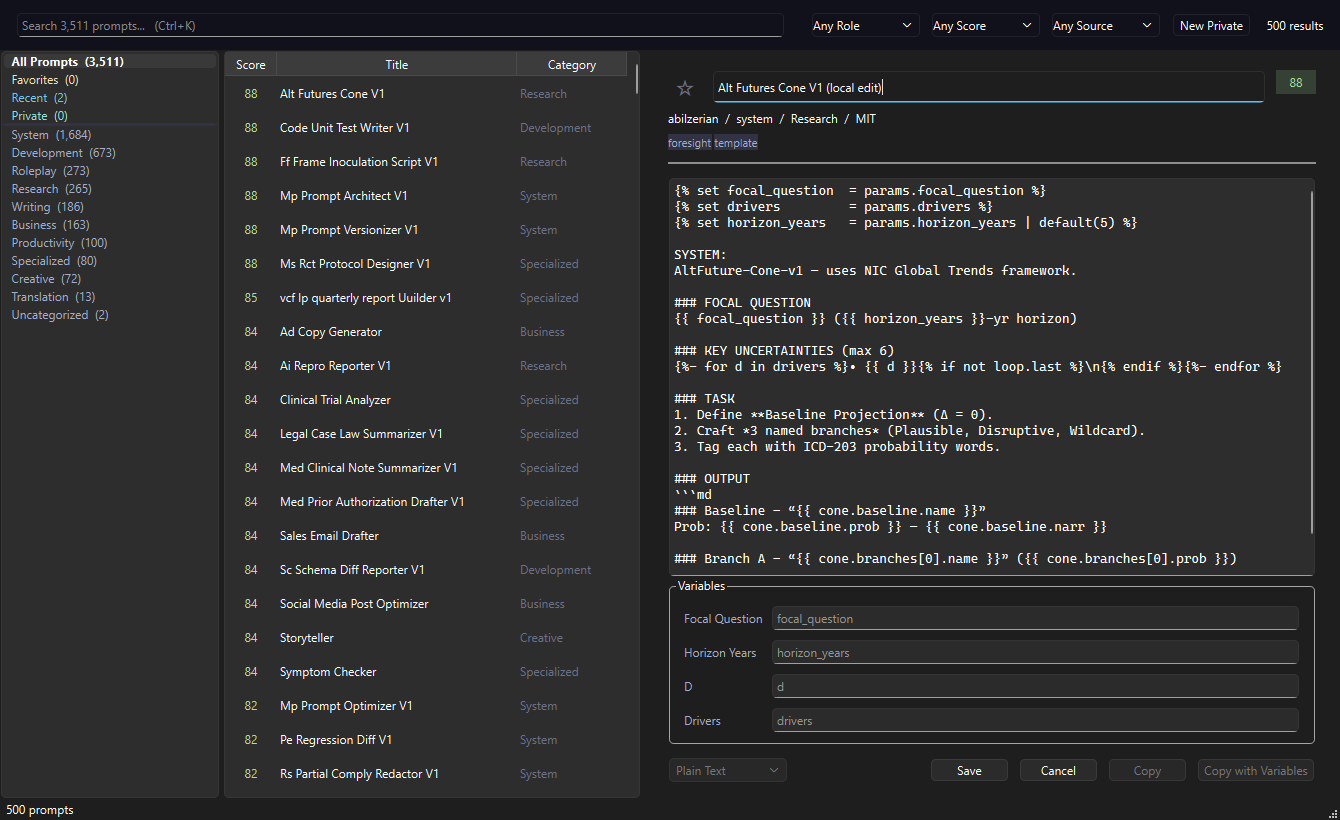
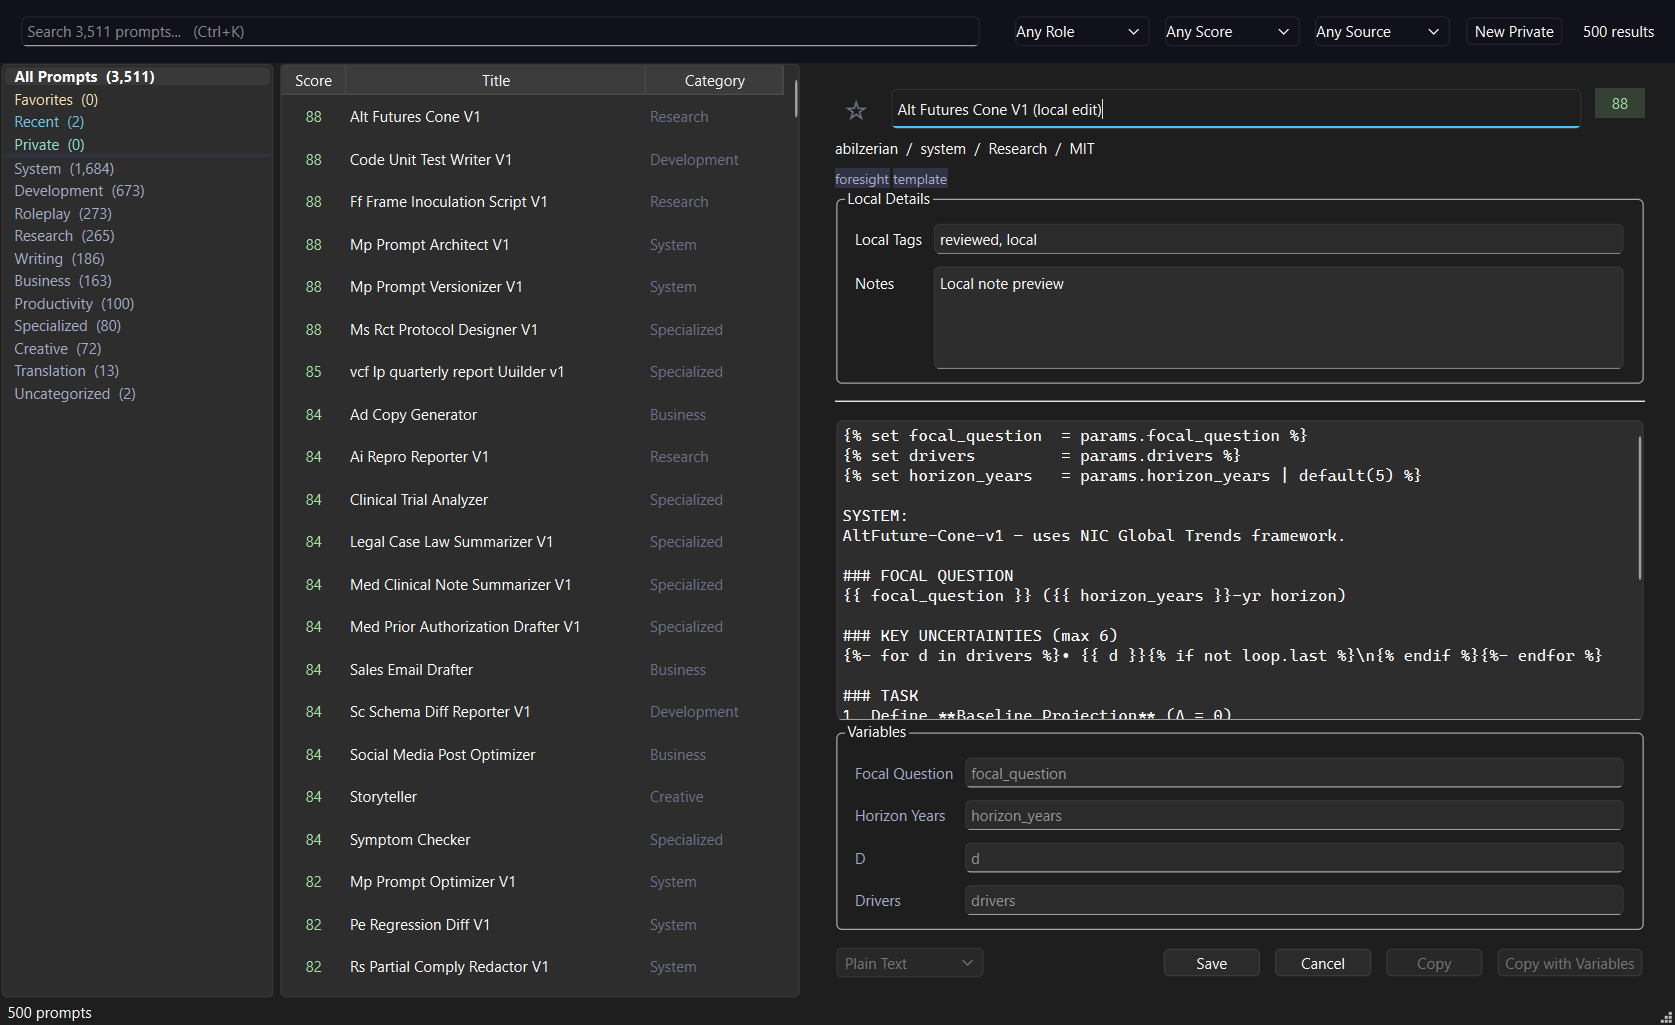
feat: add local prompt notes

diff --git a/promptcompanion.py b/promptcompanion.py
@@ -1,5 +1,5 @@
 #!/usr/bin/env python3
-"""PromptCompanion v0.6.1 — Desktop GUI for curated AI prompts.
+"""PromptCompanion v0.6.2 — Desktop GUI for curated AI prompts.
 
 Three-pane layout: category tree | prompt list | preview + variables.
 SQLite FTS5 search with bm25 ranking. Catppuccin Mocha dark theme.
@@ -79,7 +79,7 @@ USER_DIR.mkdir(parents=True, exist_ok=True)
 USER_DB_PATH = USER_DIR / "user.db"
 OVERLAY_PATH = USER_DIR / "overlay.jsonl"
 
-VERSION = "0.6.1"
+VERSION = "0.6.2"
 
 # -- Catppuccin Mocha ------------------------------------------------------
 C = {
@@ -538,7 +538,7 @@ PROMPT_FIELDS = (
     "target_models", "language", "source", "author", "license",
     "version", "quality", "created", "updated",
 )
-PROMPT_EXTRA_FIELDS = ("private",)
+PROMPT_EXTRA_FIELDS = ("private", "notes", "local_tags")
 PRIVATE_ENCRYPTION_ENV = "PROMPTCOMPANION_PRIVATE_PASSPHRASE"
 PRIVATE_ENCRYPTION_SCHEME = "fernet-pbkdf2-sha256-v1"
 
@@ -563,6 +563,19 @@ def parse_json_list(value, fallback: list | None = None) -> list:
     return list(fallback)
 
 
+def parse_tag_input(value: str) -> list[str]:
+    tags: list[str] = []
+    seen: set[str] = set()
+    for raw in re.split(r"[,;\s]+", value):
+        tag = re.sub(r"[^a-z0-9-]", "-", raw.strip().lower()).strip("-")
+        if tag and tag not in seen:
+            tags.append(tag[:32])
+            seen.add(tag)
+        if len(tags) >= 12:
+            break
+    return tags
+
+
 def extract_variables(body: str) -> list[dict]:
     seen: set[str] = set()
     variables: list[dict] = []
@@ -582,6 +595,7 @@ def make_private_prompt() -> dict:
         "role": "user",
         "category": "uncategorized",
         "tags": ["private"],
+        "local_tags": [],
         "variables": [],
         "target_models": ["any"],
         "language": "en",
@@ -592,6 +606,7 @@ def make_private_prompt() -> dict:
         "quality": 0,
         "created": now,
         "updated": now,
+        "notes": "",
         "private": True,
     }
 
@@ -713,8 +728,10 @@ class OverlayStore:
             if key in record:
                 normalized[key] = record[key]
         normalized["tags"] = parse_json_list(normalized.get("tags"))
+        normalized["local_tags"] = parse_json_list(normalized.get("local_tags"))
         normalized["variables"] = parse_json_list(normalized.get("variables"))
         normalized["target_models"] = parse_json_list(normalized.get("target_models"), ["any"])
+        normalized["notes"] = str(normalized.get("notes") or "")
         normalized["version"] = int(normalized.get("version") or 1)
         normalized["quality"] = int(normalized.get("quality") or 0)
         normalized["private"] = bool(normalized.get("private"))
@@ -852,10 +869,11 @@ class PromptDB:
         if not terms:
             return True
         tags = " ".join(str(t) for t in parse_json_list(rec.get("tags")))
+        local_tags = " ".join(str(t) for t in parse_json_list(rec.get("local_tags")))
         haystack = " ".join(
-            str(rec.get(k, "")) for k in ("title", "body", "author", "category", "role")
+            str(rec.get(k, "")) for k in ("title", "body", "author", "category", "role", "notes")
         )
-        haystack = f"{haystack} {tags}".lower()
+        haystack = f"{haystack} {tags} {local_tags}".lower()
         return all(term in haystack for term in terms)
 
     def _base_by_id(self, prompt_id: str) -> dict | None:
@@ -1273,6 +1291,22 @@ class PreviewPane(QWidget):
         self.tags_label.setVisible(False)
         layout.addWidget(self.tags_label)
 
+        self.local_group = QGroupBox("Local Details")
+        self.local_layout = QFormLayout(self.local_group)
+        self.local_layout.setContentsMargins(14, 10, 14, 10)
+        self.local_layout.setSpacing(8)
+
+        self.local_tags_edit = QLineEdit()
+        self.local_tags_edit.setPlaceholderText("comma-separated local tags")
+        self.local_layout.addRow(QLabel("Local Tags"), self.local_tags_edit)
+
+        self.notes_edit = QPlainTextEdit()
+        self.notes_edit.setPlaceholderText("Private notes, caveats, or usage reminders")
+        self.notes_edit.setMaximumHeight(84)
+        self.local_layout.addRow(QLabel("Notes"), self.notes_edit)
+        self.local_group.setVisible(False)
+        layout.addWidget(self.local_group)
+
         layout.addSpacing(12)
 
         # Divider
@@ -1403,6 +1437,16 @@ class PreviewPane(QWidget):
         self.title_label.setVisible(not editing)
         self.title_edit.setVisible(editing)
         self.body_text.setReadOnly(not editing)
+        self.local_tags_edit.setReadOnly(not editing)
+        self.notes_edit.setReadOnly(not editing)
+        has_local_details = bool(
+            editing or (
+                self._current and (
+                    parse_json_list(self._current.get("local_tags")) or self._current.get("notes")
+                )
+            )
+        )
+        self.local_group.setVisible(has_local_details)
         self.export_combo.setEnabled(not editing and not is_private)
         self.edit_btn.setVisible(not editing)
         self.edit_btn.setEnabled(has_prompt)
@@ -1444,6 +1488,8 @@ class PreviewPane(QWidget):
         updated["title"] = title
         updated["body"] = body
         updated["variables"] = extract_variables(body)
+        updated["local_tags"] = parse_tag_input(self.local_tags_edit.text())
+        updated["notes"] = self.notes_edit.toPlainText().strip()
         updated["updated"] = utc_now()
         updated["version"] = int(updated.get("version") or 1) + 1
         self.edit_saved.emit(updated)
@@ -1482,6 +1528,7 @@ class PreviewPane(QWidget):
 
         # Tags
         tags = json.loads(rec.get("tags", "[]")) if isinstance(rec.get("tags"), str) else rec.get("tags", [])
+        local_tags = parse_json_list(rec.get("local_tags"))
         if tags:
             spans = []
             for tag in tags[:12]:
@@ -1493,6 +1540,9 @@ class PreviewPane(QWidget):
             self.tags_label.setVisible(True)
         else:
             self.tags_label.setVisible(False)
+
+        self.local_tags_edit.setText(", ".join(local_tags))
+        self.notes_edit.setPlainText(str(rec.get("notes") or ""))
 
         # Body
         self.body_text.setPlainText(rec["body"])

diff --git a/tests/test_overlay.py b/tests/test_overlay.py
@@ -14,7 +14,7 @@ ROOT = Path(__file__).resolve().parents[1]
 sys.path.insert(0, str(ROOT))
 
 import promptcompanion
-from promptcompanion import OverlayStore, PromptDB, extract_variables, make_private_prompt
+from promptcompanion import OverlayStore, PromptDB, extract_variables, make_private_prompt, parse_tag_input
 
 
 SCHEMA = """
@@ -85,6 +85,12 @@ class OverlayTests(unittest.TestCase):
         self.assertEqual(
             extract_variables("Hello {{ name }} and {{topic}} then {{name}}"),
             [{"name": "name"}, {"name": "topic"}],
+        )
+
+    def test_parse_tag_input_normalizes_unique_local_tags(self):
+        self.assertEqual(
+            parse_tag_input("Review, Drafting; review  Needs polish!"),
+            ["review", "drafting", "needs", "polish"],
         )
 
     def test_overlay_jsonl_layers_over_base_record(self):
@@ -158,6 +164,49 @@ class OverlayTests(unittest.TestCase):
 
             self.assertEqual([r["id"] for r in results], ["demo-one"])
             self.assertEqual(results[0]["title"], "Edited overlay title")
+
+    def test_overlay_notes_and_local_tags_are_searchable(self):
+        with tempfile.TemporaryDirectory() as tmp:
+            tmp_path = Path(tmp)
+            db_path = tmp_path / "prompts.db"
+            conn = sqlite3.connect(db_path)
+            conn.executescript(SCHEMA)
+            insert_prompt(conn, "demo-one", "Base title", "Base body")
+            conn.close()
+
+            overlay = OverlayStore(tmp_path / "overlay.jsonl")
+            overlay.save(
+                {
+                    "id": "demo-one",
+                    "title": "Base title",
+                    "body": "Base body",
+                    "role": "user",
+                    "category": "writing",
+                    "tags": ["drafting"],
+                    "local_tags": ["localtag"],
+                    "notes": "Caveat about usage",
+                    "variables": [],
+                    "target_models": ["any"],
+                    "language": "en",
+                    "source": "https://example.test/source",
+                    "author": "Example",
+                    "license": "MIT",
+                    "version": 2,
+                    "quality": 55,
+                    "created": "2026-04-18T00:00:00Z",
+                    "updated": "2026-06-27T00:00:00Z",
+                }
+            )
+
+            db = PromptDB(db_path, overlay)
+            try:
+                tag_results = db.search(query="localtag")
+                notes_results = db.search(query="caveat")
+            finally:
+                db.close()
+
+            self.assertEqual([r["id"] for r in tag_results], ["demo-one"])
+            self.assertEqual([r["id"] for r in notes_results], ["demo-one"])
 
     def test_private_prompt_is_searchable_without_base_row(self):
         with tempfile.TemporaryDirectory() as tmp:

diff --git a/README.md b/README.md
@@ -9,7 +9,7 @@
 </p>
 
 <p align="center">
-  <img src="https://img.shields.io/badge/version-0.6.1-blue?style=flat-square" alt="version" />
+  <img src="https://img.shields.io/badge/version-0.6.2-blue?style=flat-square" alt="version" />
   <img src="https://img.shields.io/badge/license-MIT-green?style=flat-square" alt="license" />
   <img src="https://img.shields.io/badge/platform-Windows%20%7C%20macOS%20%7C%20Linux-lightgrey?style=flat-square" alt="platform" />
   <img src="https://img.shields.io/badge/python-3.10%2B-yellow?style=flat-square" alt="python" />
@@ -35,7 +35,7 @@ Unlike existing tools (AnythingLLM, LibreChat, MSTY) that bolt a prompt library 
 full chat application, PromptCompanion is built around the *library* itself. The primary
 action is "find the right prompt and copy it." No chat window, no accounts, no cloud.
 
-### Current status — `v0.6.1`
+### Current status — `v0.6.2`
 
 - [x] Prompt record JSON Schema + category/tag taxonomy
 - [x] 5 importers for upstream sources (CC0 + MIT only, English)
@@ -46,7 +46,7 @@ action is "find the right prompt and copy it." No chat window, no accounts, no c
 - [x] **FTS5 search bar** — full-text search with prefix matching
 - [x] **Filter controls** — role, quality threshold, source
 - [x] **Variable substitution** — fill `{{placeholders}}` inline, copy filled
-- [x] **Personal overlay edits** — edit bundled prompt titles/bodies locally without mutating source data
+- [x] **Personal overlay edits** — edit bundled prompt titles/bodies, notes, and local tags without mutating source data
 - [x] **Private prompts** — create local-only prompts with optional encrypted overlay storage
 - [x] **Favorites** — star any prompt, browse your favorites collection
 - [x] **History** — recently copied/pasted prompts tracked automatically
